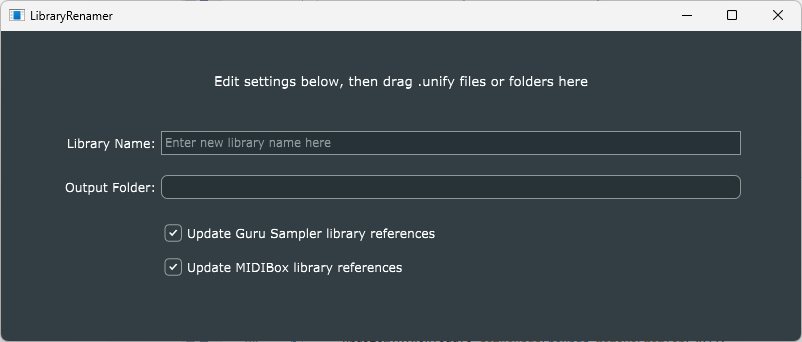
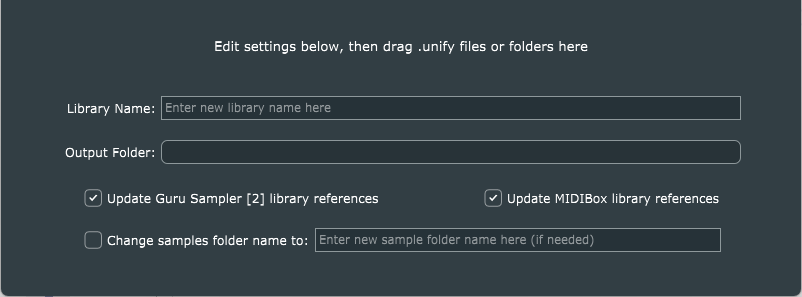
LibraryRenamer: Update readme and screenshot

diff --git a/LibraryRenamer/README.md b/LibraryRenamer/README.md
@@ -7,7 +7,7 @@ To understand this code, you need to learn about [the structure of Unify patch f
 
 ### GUI and usage
 
-![LibraryRenamer](C:\Users\owner\Documents\GitHub\unify-batch\LibraryRenamer\LibraryRenamer.png)
+![LibraryRenamer](LibraryRenamer.png)
 
 Enter the new library name you want in the "Library Name" text box.
 
@@ -15,4 +15,10 @@ If you would like the updated patch files saved to a different folder, click the
 
 Unify patch files contain embedded references to sample files (for *Guru Sampler*) and MIDI files (for *MIDIBox*). *LibraryRenamer* normally updates these to be relative to your new library name, with one exception: any references to files in the *Unify Standard Library* are always left unchanged.
 
-When renaming a library you have built for yourself, you may wish to disable these reference updates, because your patches may refer to files in arbitrary locations. The two checkboxes at the bottom of the GUI allow for this.
+When renaming a library you have built for yourself, you may wish to disable these reference updates, because your patches may refer to files in arbitrary locations. The two checkboxes on the second-lowest row of the GUI allow for this.
+
+If your library includes its own samples, these are stored in sub-folders under the library's own *Samples* folder. When there is only one such sub-folder, it is most commonly given the same name as the library itself, but this can be cumbersome if the library name is long. If you would prefer a shorter name, check the box at the very bottom of the GUI and enter the name you want at the bottom right.
+
+For example, the patch library called *Subsonic Artz Repro Cybernetica* has all its custom samples inside a single sub-folder called simply *CyberneticA* under its *Samples* folder. To maintain this custom sub-folder name when renaming this library, the bottom box would be checked and "CyberneticA" would be entered at the bottom right.
+
+Note the *Library Renamer* program isn't very sophisticated. If your library has multiple sub-folders under its *Samples* folder, you will just have to pick one to use in this way, and then manually update your *Guru Sampler* or *Guru Sampler 2* instances that must refer to a different sub-folder.
